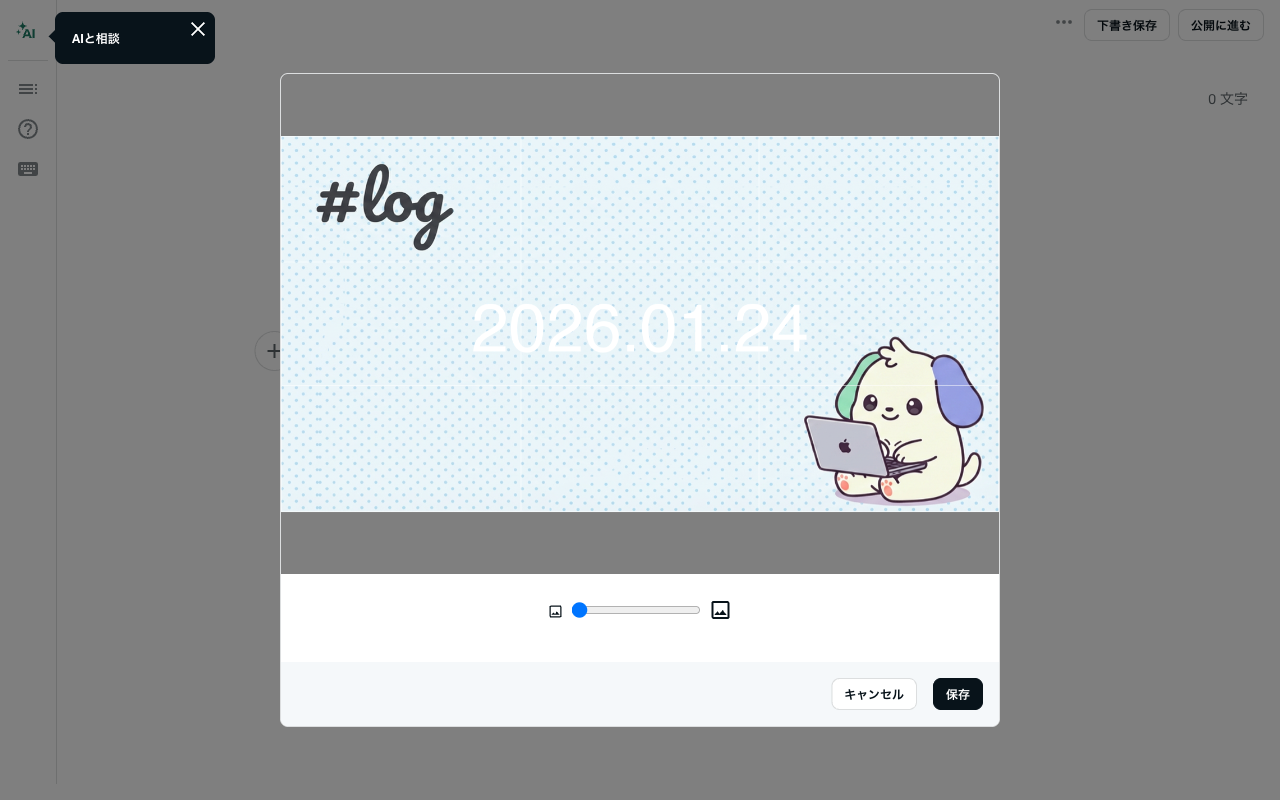
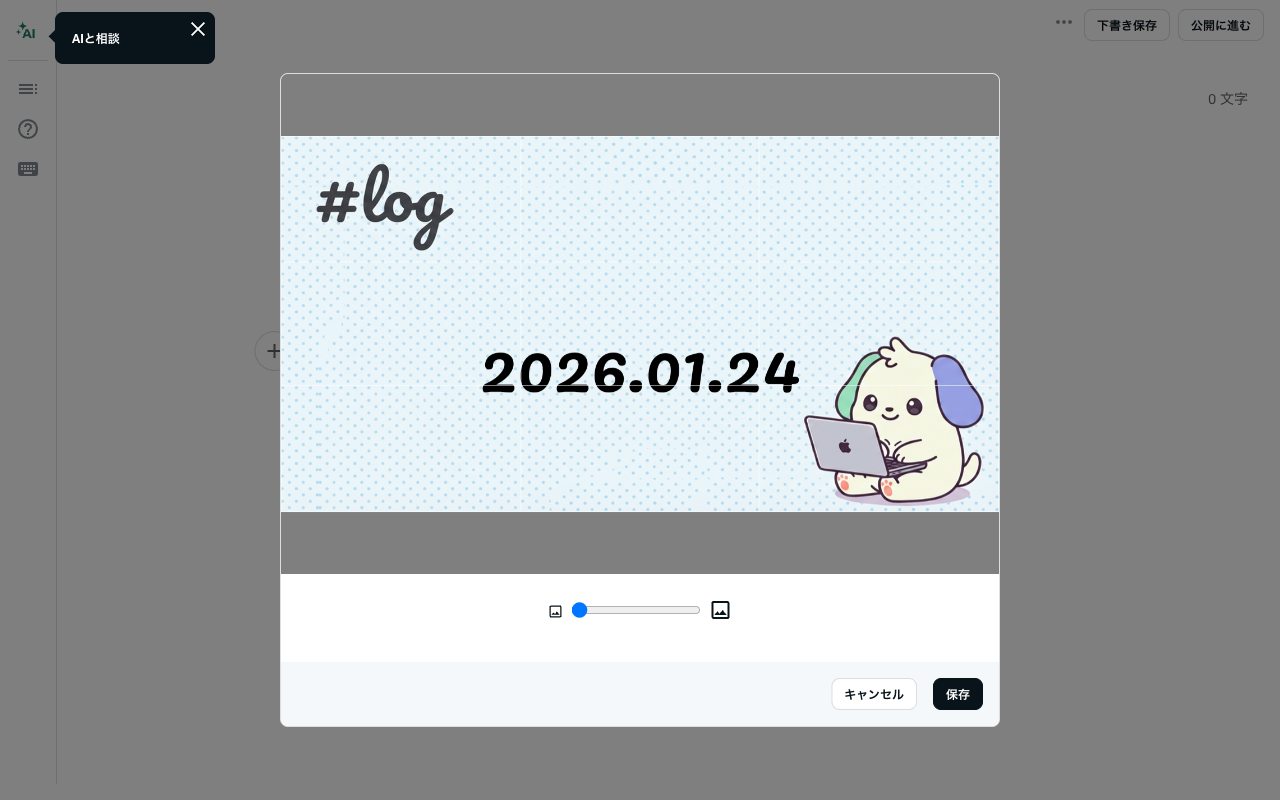
Improve: Increase font size and refine article formatting
Changes:
- Increase header image font size from 120 to 180 for better visibility
- Refine OpenAI formatter prompt to include more detailed information in categories
- Change "簡潔な説明" (brief description) to "詳細な説明" (detailed description)
- Add guidance to avoid omitting information and focus on category classification
- Improve example output to show more detailed content structure

Changed region(s): [[0.375, 0.4375, 0.625, 0.5]]

diff --git a/src/openai_formatter.py b/src/openai_formatter.py
@@ -27,7 +27,7 @@ note.comは以下のマークダウン記法のみ対応しています：
 
 1. タイトルは `【Log】YYYY.MM.DD` の形式（見出し記号なし）
 
-2. メインセクションは `## ` + 絵文字 + テキスト：
+2. メインセクションは `## ` + 絵文字 + テキスト（カテゴリ分類を重視）：
    - `## 📝 今日のハイライト`
    - `## 💻 Technical & Work`
    - `## ✍ Study & Skills`
@@ -37,15 +37,17 @@ note.comは以下のマークダウン記法のみ対応しています：
 
 3. 小見出しは `### ` を使用
 
-4. 箇条書きは `- ` を使用
+4. 箇条書きは `- ` を使用し、詳細な説明を含める（単語の羅列ではなく、具体的な内容を記載）
 
 5. 重要なキーワードは `**太字**` で強調
 
 6. セクション間は空行1行で区切る
 
-7. 該当する内容がないセクションは省略
+7. 該当する内容があるセクションは詳細を含めて記載（省略しすぎない）
 
-8. 元のメモの情報は漏らさず含める
+8. 元のメモの情報は漏らさず、詳細に含める
+
+9. 各セクションの項目は単に情報を列挙するのではなく、意味のあるまとまりで説明する
 
 # 出力形式の具体例
 
@@ -53,49 +55,49 @@ note.comは以下のマークダウン記法のみ対応しています：
 
 ## 📝 今日のハイライト
 
-- **重要なトピック1** - 簡潔な説明
-- **重要なトピック2** - 簡潔な説明
-- **重要なトピック3** - 簡潔な説明
+- **重要なトピック1** - なぜ重要か、どういった成果や学びがあったかを詳しく説明
+- **重要なトピック2** - 具体的な内容とその背景、影響について詳しく説明
+- **重要なトピック3** - 実施内容と得られた気づきや成果を詳しく説明
 
 ## 💻 Technical & Work
 
 ### プロジェクトA
 
-- 進捗1
-- 進捗2
+- 具体的な作業内容と実施した理由、得られた結果を詳しく説明
+- 技術的な課題があれば、その原因と採った対策について詳しく説明
 
 ### 技術的な学習
 
-- **Python** - 具体的な内容
-- **データベース** - 具体的な内容
+- **Python** - 学習した内容、実装した機能、直面した課題と解決方法
+- **データベース** - 学習テーマ、実際の応用シーン、今後の活用予定
 
 ## ✍ Study & Skills
 
 ### 言語学習
 
-- 英語の勉強時間: 30分
-- 学習内容: ○○について学んだ
+- 英語の勉強: 30分実施。具体的な学習内容（何を学んだか）と進捗状況
+- 習得状況: 得られた知識や実践での応用について
 
 ## 🧠 Career & Mindset
 
-- キャリアに関する考え
+- キャリア発展に関する考え、気づき、実施した施策とその結果を詳しく説明
 
 ## 🏥 Life & Health
 
-- 運動: ○○をした
-- 睡眠: ○時間
+- 運動: 実施した運動内容、時間、効果や感想を詳しく説明
+- 睡眠: 睡眠時間と質、睡眠に関する気づきや改善策
 
 ## 🚀 Next Action
 
-- タスク1
-- タスク2
-- タスク3
+- 明日以降の優先タスク1: 期限と実施理由を含めて詳しく説明
+- 明日以降の優先タスク2: 期限と実施理由を含めて詳しく説明
+- 明日以降の優先タスク3: 期限と実施理由を含めて詳しく説明
 
 ---
 
 ### あとがき
 
-本日の一言や感情を記載します。
+本日の全体的な感想、気づき、明日への決意や工夫予定を詳しく記載。
 """
 
 

diff --git a/src/image_generator.py b/src/image_generator.py
@@ -93,7 +93,7 @@ def _add_date_text(image: Image.Image, date: str) -> None:
     draw = ImageDraw.Draw(image)
 
     # Try to load a nice font, fall back to default if not available
-    font = _get_font(size=120)
+    font = _get_font(size=180)
 
     # Main date text
     main_text = date
@@ -103,10 +103,11 @@ def _add_date_text(image: Image.Image, date: str) -> None:
     text_width = bbox[2] - bbox[0]
     text_height = bbox[3] - bbox[1]
 
+    # Center the text both horizontally and vertically
     x = (IMAGE_WIDTH - text_width) // 2
     y = (IMAGE_HEIGHT - text_height) // 2
 
-    # Draw text (no shadow, white text only)
+    # Draw text centered (no shadow, black text only)
     draw.text((x, y), main_text, font=font, fill=TEXT_COLOR)
 
 
